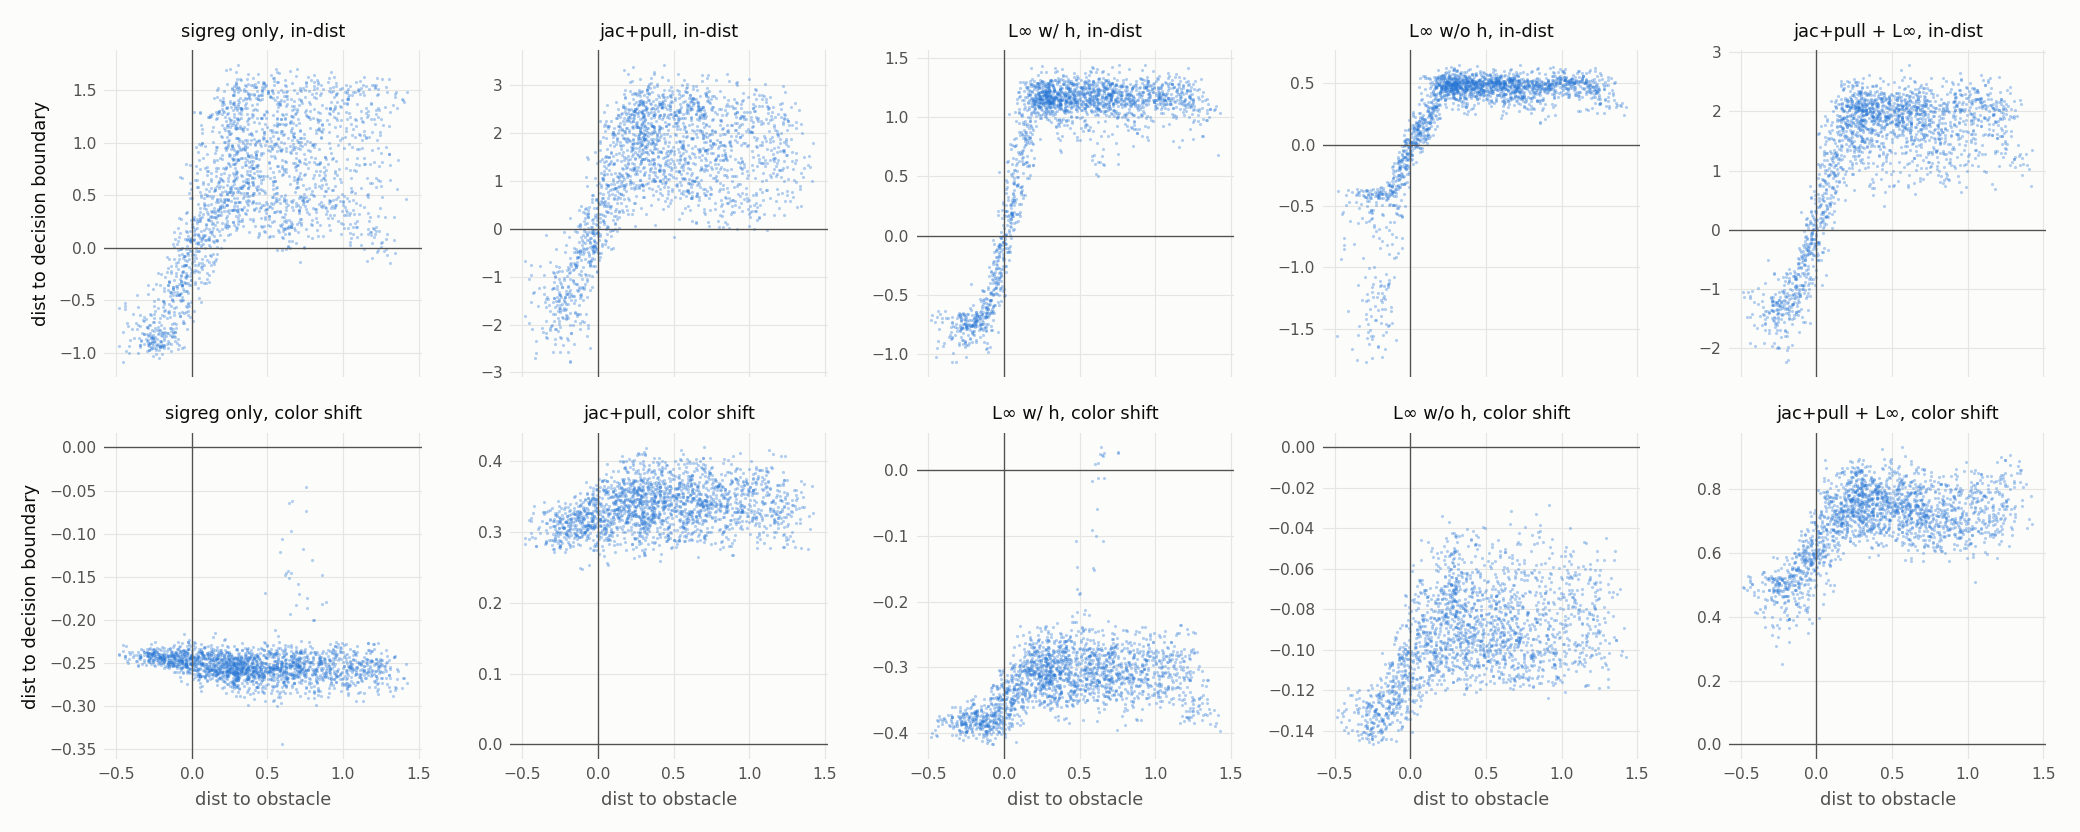
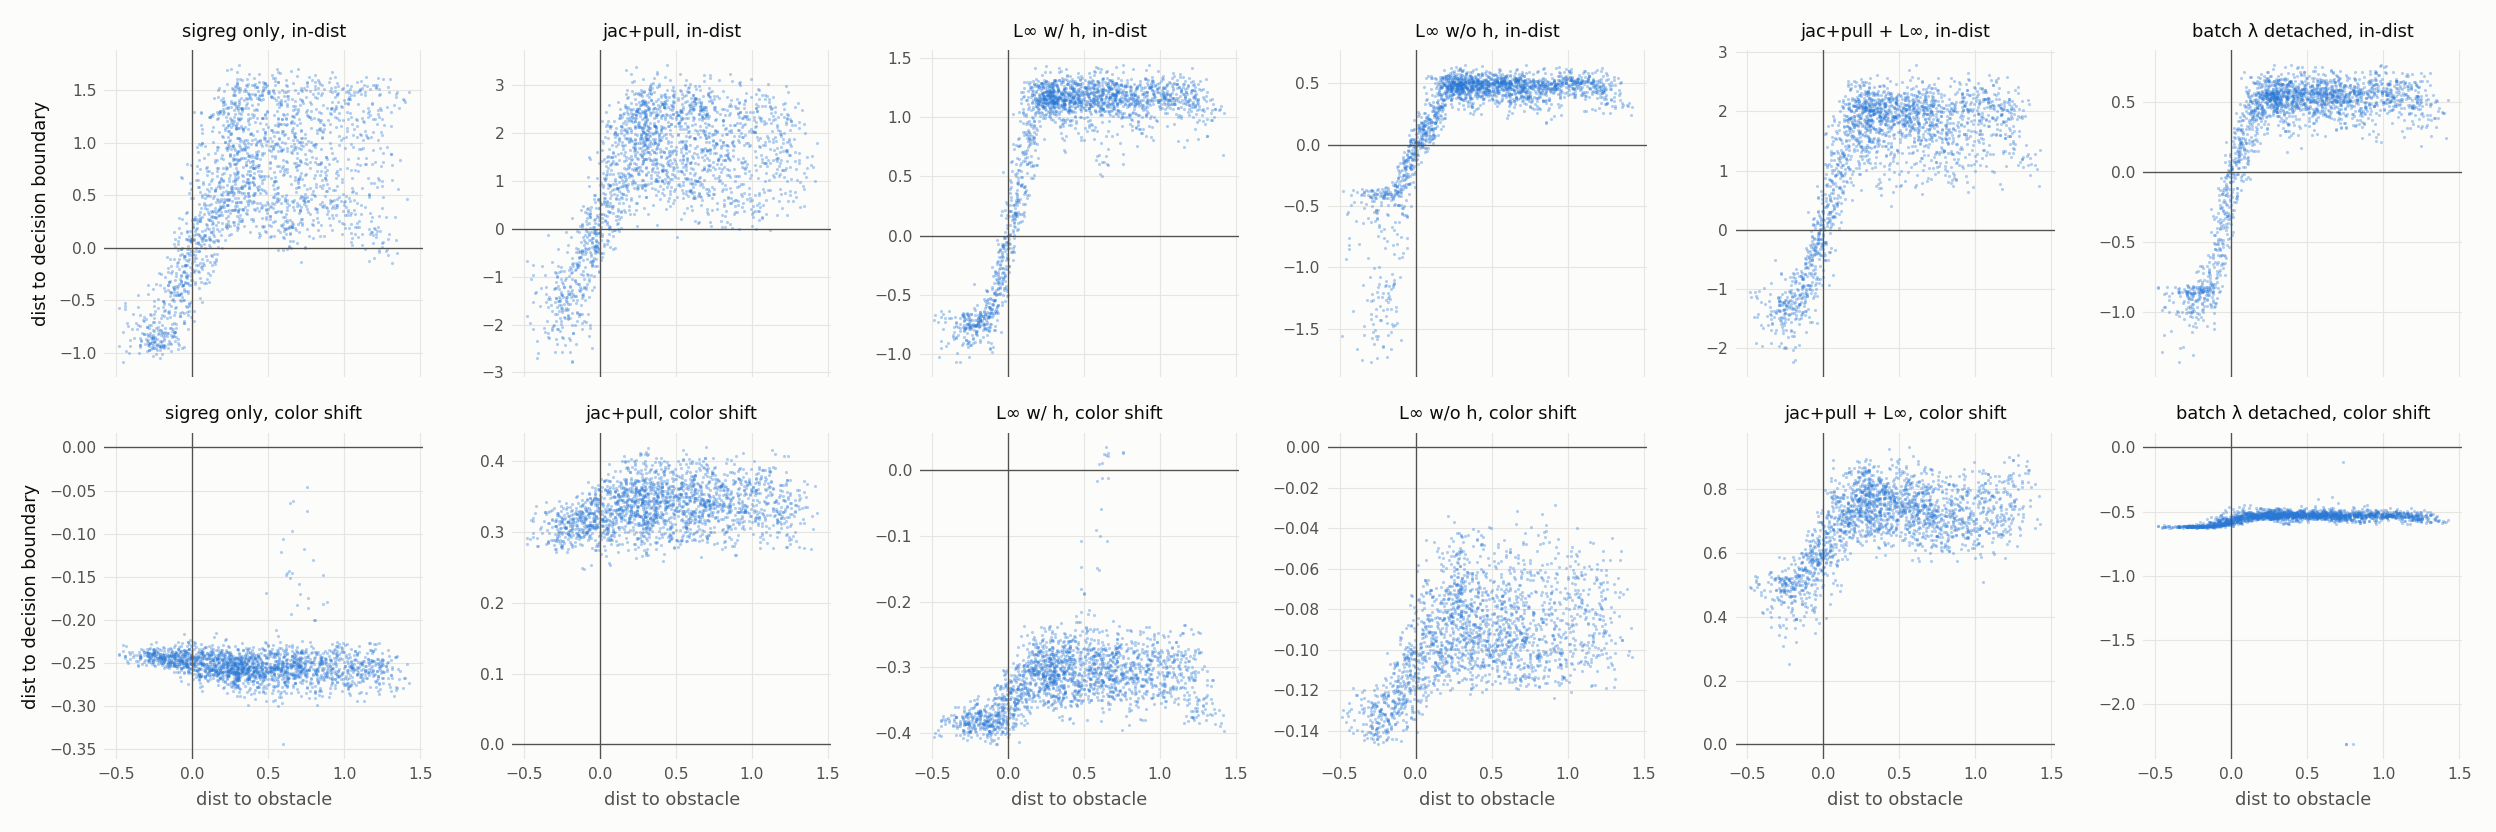
Report: user edits from main-checkout copy

diff --git a/figs/plot_safety_scatter.py b/figs/plot_safety_scatter.py
@@ -1,12 +1,15 @@
 """Scatter of the zero-shot margin head vs the true distance to the nearest obstacle (Dubins, 2000 test states,
 training seed 3072): one figure with y = margin score h, one with y = signed latent distance to the decision boundary
 h / ||grad_z h|| (class-gap units). Rows: in-dist, color shift. Single hue, no legend."""
-import numpy as np, matplotlib; matplotlib.use("Agg"); import matplotlib.pyplot as plt
+import sys, numpy as np, matplotlib; matplotlib.use("Agg"); import matplotlib.pyplot as plt
 SURF, INK, INK2, BLUE, GRID = "#fcfcfb", "#0b0b0b", "#52514e", "#2a78d6", "#e6e5e1"
-d = np.load("/data/seongbin/lewm/safeadv_results/routes/safety_scores.npz"); x = d["dist"]
-MODELS = ["sigreg only", "jac+pull", "L∞ w/ h", "L∞ w/o h", "jac+pull + L∞"]; ROWS = [("in-dist", "in-dist"), ("color", "color shift")]
-for suffix, ylabel, out in [("", "margin score", "figs/safety_margin_scatter.png"), ("|bdist", "dist to decision boundary", "figs/safety_bdist_scatter.png")]:
-    fig, axes = plt.subplots(2, len(MODELS), figsize=(2.6 * len(MODELS), 5.2), sharex=True, facecolor=SURF)
+B = sys.argv[1] if len(sys.argv) > 1 else "dubins"
+d = np.load(f"/data/seongbin/lewm/safeadv_results/routes/{'safety_scores' if B == 'dubins' else 'sg_safety_scores'}.npz"); x = d["dist"]
+MODELS = ["sigreg only", "jac+pull", "L∞ w/ h", "L∞ w/o h", "jac+pull + L∞", "batch λ detached"]
+ROWS = [("in-dist", "in-dist"), ("color", "color shift")] + ([("rotation", "camera rotation")] if B == "sg" else [])
+pre = "" if B == "dubins" else "sg_"
+for suffix, ylabel, out in [("", "margin score", f"figs/{pre}safety_margin_scatter.png"), ("|bdist", "dist to decision boundary", f"figs/{pre}safety_bdist_scatter.png")]:
+    fig, axes = plt.subplots(len(ROWS), len(MODELS), figsize=(2.6 * len(MODELS), 2.6 * len(ROWS)), sharex=True, facecolor=SURF)
     for r, (cond, cname) in enumerate(ROWS):
         for c, m in enumerate(MODELS):
             ax = axes[r, c]; yv = d[f"{m}|{cond}{suffix}"]; ax.set_facecolor(SURF)
@@ -15,6 +18,6 @@ for suffix, ylabel, out in [("", "margin score", "figs/safety_margin_scatter.png
             ax.set_title(f"{m}, {cname}", fontsize=8, color=INK)
             ax.tick_params(colors=INK2, labelsize=7, length=0); ax.grid(color=GRID, lw=0.5); ax.set_axisbelow(True)
             for sp in ax.spines.values(): sp.set_visible(False)
-            if r == 1: ax.set_xlabel("dist to obstacle", fontsize=8, color=INK2)
+            if r == len(ROWS) - 1: ax.set_xlabel("dist to obstacle", fontsize=8, color=INK2)
             if c == 0: ax.set_ylabel(ylabel, fontsize=8, color=INK)
     fig.tight_layout(); fig.savefig(out, dpi=160, facecolor=SURF); print("wrote", out)

diff --git a/safety_adv_reg_report.md b/safety_adv_reg_report.md
@@ -339,8 +339,8 @@ Zero-shot sign accuracy (h ≥ 0 = safe), mean ± std over 3 eval seeds. Dubins 
 | L∞ safety reg, λ-projected, batch λ, detached | 0.977 ± 0.007 | 0.500 ± 0.000 | 0.968 ± 0.005 | 0.951 ± 0.017 | 0.997 ± 0.002 | 0.992 ± 0.001 | 0.983 ± 0.001 |
 | L∞ safety reg, λ-projected, global λ | 0.977 ± 0.002 | 0.500 ± 0.000 | 0.963 ± 0.002 | 0.941 ± 0.015 | 0.892 ± 0.006 | 0.844 ± 0.007 | 0.802 ± 0.008 |
 | L∞ safety reg, λ-projected, global λ, projected | 0.974 ± 0.003 | 0.690 ± 0.172 | 0.960 ± 0.007 | 0.920 ± 0.018 | 0.950 ± 0.003 | 0.843 ± 0.004 | 0.829 ± 0.003 |
-| L∞ safety reg, λ-projected, batch λ, detached direction, orthogonal penalty #oct-18 | 0.972 ± 0.002 | 0.501 ± 0.001 | 0.958 ± 0.011 | 0.511 ± 0.011 | 0.920 ± 0.014 | 0.840 ± 0.000 | 0.828 ± 0.002 |
-| L∞ safety reg, λ-projected, batch λ, detached direction, orthogonal + projection penalty #oct-18 | 0.965 ± 0.002 | 0.500 ± 0.000 | 0.950 ± 0.008 | 0.835 ± 0.047 | 0.973 ± 0.004 | 0.857 ± 0.001 | 0.834 ± 0.001 |
+| L∞ safety reg, λ-projected, batch λ, detached, orthog. | 0.972 ± 0.002 | 0.501 ± 0.001 | 0.958 ± 0.011 | 0.511 ± 0.011 | 0.920 ± 0.014 | 0.840 ± 0.000 | 0.828 ± 0.002 |
+| L∞ safety reg, λ-projected, batch λ, detached, orthog. + proj. | 0.965 ± 0.002 | 0.500 ± 0.000 | 0.950 ± 0.008 | 0.835 ± 0.047 | 0.973 ± 0.004 | 0.857 ± 0.001 | 0.834 ± 0.001 |
 
 - **Dubins:** every λ variant loses the color threshold except global λ with projected scale, which partly keeps it (0.690). Its spread across eval seeds is large and it has one training seed. Batch λ also loses the rotation threshold (0.627).
 - **Safety Gym:** all λ variants collapse toward calling everything safe (0.80–0.86, near the 0.833 all-safe rate). Only the L∞ safety reg w/ h keeps its thresholds (0.987 / 0.977).
@@ -348,7 +348,7 @@ Zero-shot sign accuracy (h ≥ 0 = safe), mean ± std over 3 eval seeds. Dubins 
 The full uniform, 50/50 and Safety Gym tables (sign accuracy, AUC, predicted-safe fraction) include both λ rows. On the 50/50 eval, Dubins color AUC is 0.819 ± 0.025 for batch λ and 0.892 ± 0.069 for global λ.
 
 - **Batch λ with a detached direction fixes batch λ** (`lambda_mode: batch_detached`, one training seed). The direction comes from the current batch's class means but carries no gradient; the scale ‖λ_batch‖ keeps its gradient. On Dubins, color AUC is 0.948 ± 0.013 (eval seeds 0.94 / 0.94 / 0.96), against 0.639 ± 0.345 for batch λ, and rotation is back to 0.996 (batch λ: 0.896). On Safety Gym it reaches color 0.992 and rotation 0.962, and it is the first λ variant whose thresholds survive (sign accuracy 0.992 / 0.983; batch λ 0.856 / 0.836). Prediction loss is low (0.0106 / 0.0221). The gradient through the direction is what broke batch λ, presumably because it let the encoder rotate the protected axis. A noisy per-batch direction is fine once it is detached. The Dubins color threshold still collapses (50/50 sign accuracy 0.500). Over 3 training seeds it holds on Safety Gym (color 0.993 ± 0.007, rotation 0.945 ± 0.023, thresholds kept on every seed) but not on Dubins color (0.721 ± 0.434, one seed at 0.220); see [Training-seed variability](#training-seed-variability).
-- #oct-18 **Forcing the shift orthogonal hurts** (detached batch direction, one training seed; `lambda_pen: cos` and `cos+proj`, commit `8ff4cff`). The orthogonal penalty is cos²(Δz, λ_n) = (Δz · λ_n)² / ‖Δz‖², with ‖Δz‖ detached so the encoder can't lower it by inflating sideways movement, and floored at 0.1 × the class gap. PGD still maximizes the projection penalty. Compared with the projection penalty alone (Dubins 0.948 / 0.996 / 0.996, Safety Gym 0.992 / 0.962):
+- **Forcing the shift orthogonal hurts** (detached batch direction, one training seed; `lambda_pen: cos` and `cos+proj`, commit `8ff4cff`). The orthogonal penalty is cos²(Δz, λ_n) = (Δz · λ_n)² / ‖Δz‖², with ‖Δz‖ detached so the encoder can't lower it by inflating sideways movement, and floored at 0.1 × the class gap. PGD still maximizes the projection penalty. Compared with the projection penalty alone (Dubins 0.948 / 0.996 / 0.996, Safety Gym 0.992 / 0.962):
   - **orthogonal only** breaks Dubins rotation (0.360 ± 0.332) and Safety Gym (color 0.677, rotation 0.540). With no reward for separating the classes, the Safety Gym latent never separates them: the side-trained head only reaches AUC 0.62.
   - **orthogonal + projection** keeps Dubins (0.934 / 0.986 / 0.930) but still loses Safety Gym (0.718 / 0.579; thresholds collapse to near all-safe).
   - Prediction loss is 0.042–0.070, against 0.010–0.022 for the projection penalty alone. The projection penalty's three routes (rotate, shrink, separate) work better than demanding rotation alone.
